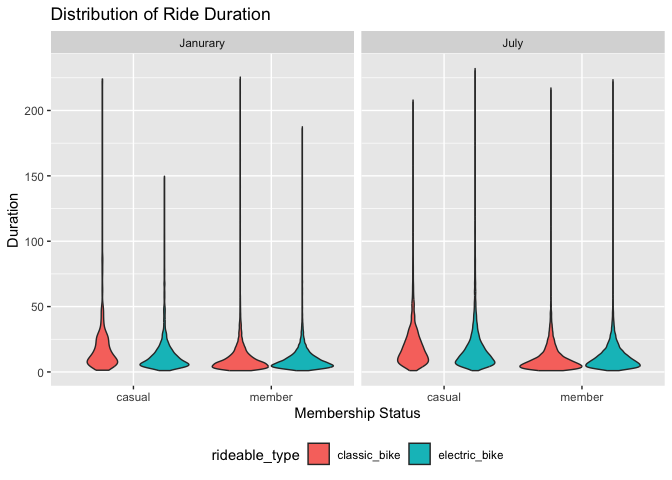
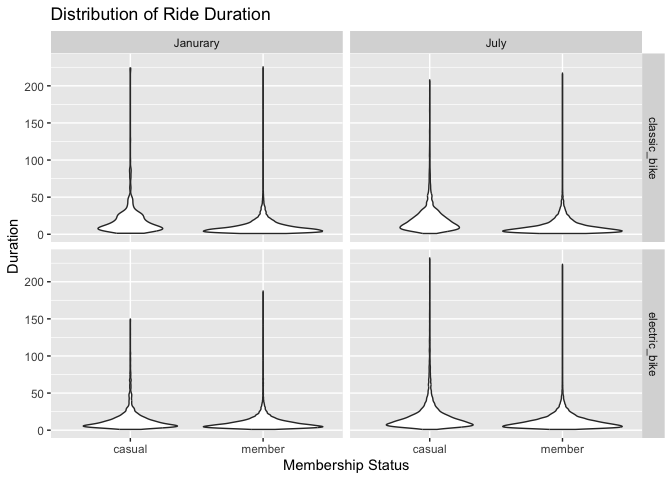
change comments

diff --git a/p8105_hw3_jl6521.md b/p8105_hw3_jl6521.md
@@ -1,7 +1,7 @@
 p8105_hw3_jl6521
 ================
 Jiayi
-2024-10-10
+2024-10-13
 
 ## Problem 1
 
@@ -20,7 +20,105 @@ weather stations around the world with 7 daily variables. They are ids,
 maximum and minimum temperature, total daily precipitation, snowfall,
 and snow depth.
 
-\*and indicating the extent to which missing data is an issue.
+Below we clean the data, creating separate variables for year, month,
+and day and converting `tmax` and `tmin` to numeric. We find that 0 is
+the most commonly observed value for snowfall. This is because most days
+of the year, it does not snow at all in NY. The second most commonly
+observed value is `NA`, indicating missingness. Other common values are
+13, 25, and 51, suggesting that snowfall is originally recorded in
+fractions of an inch and converted to mm.
+
+``` r
+ny_noaa %>% 
+  count(snow) %>%
+  arrange(desc(n))
+```
+
+    ## # A tibble: 282 × 2
+    ##     snow       n
+    ##    <int>   <int>
+    ##  1     0 2008508
+    ##  2    NA  381221
+    ##  3    25   31022
+    ##  4    13   23095
+    ##  5    51   18274
+    ##  6    76   10173
+    ##  7     8    9962
+    ##  8     5    9748
+    ##  9    38    9197
+    ## 10     3    8790
+    ## # ℹ 272 more rows
+
+``` r
+ny_noaa = 
+  ny_noaa %>% 
+  separate(date, into = c("year", "month", "day"), convert = TRUE) %>% 
+  mutate(
+    tmax = as.numeric(tmax),
+    tmin = as.numeric(tmin))
+```
+
+Below is a two-panel plot showing the average max temperature in January
+and in July in each station across years. As expected, the mean
+temperature in January is much lower than the mean temperature in July
+for all stations and across all years. All stations appear to follow
+similar trends of temperature peaks and valleys within a month across
+the years, i.e.when one station has a high monthly mean temperature for
+a given year, most other stations also have a high monthly mean
+temperature for that year. We do see one uncharacteristically cold
+station in July of 1987 or 1988, as well as a few other less drastic
+outliers.
+
+``` r
+ny_noaa %>% 
+  group_by(id, year, month) %>% 
+  filter(month %in% c(1, 7)) %>% 
+  summarize(mean_tmax = mean(tmax, na.rm = TRUE, color = id)) %>% 
+  ggplot(aes(x = year, y = mean_tmax, group = id)) + geom_point() + geom_path() +
+  facet_grid(~month) +
+  labs(title = "Mean monthly temperature for each station across years for January and July")
+```
+
+    ## `summarise()` has grouped output by 'id', 'year'. You can override using the
+    ## `.groups` argument.
+
+    ## Warning: Removed 5970 rows containing missing values or values outside the scale range
+    ## (`geom_point()`).
+
+    ## Warning: Removed 5931 rows containing missing values or values outside the scale range
+    ## (`geom_path()`).
+
+![](p8105_hw3_jl6521_files/figure-gfm/unnamed-chunk-3-1.png)<!-- -->
+Below we show a two-panel plot including (i) a hex plot of `tmax` vs
+`tmin` for the full dataset; and (ii) a ridge plot showing the
+distribution of snowfall values (in mm) greater than 0 and less than 100
+separately by year.
+
+From the hex plot we see that while there is some variability, the
+majority of the data cluster tightly in the center of the distribution.
+In relatively rare cases, it seems that `tmax` is less than `tmin`,
+which raises questions about data recording and quality.
+
+From the ridge plot, we see a multimodal density of snowfall within a
+given year. Most stations see between 0 and 35 mm of snow in a year.
+Then there is a another group of stations that see about 45 mm of snow,
+and another group that sees nearly 80 mm. It is likely this
+multimodality stems from the conversion of measurements in one system
+(fractions of an inch) to another (using the metric system), which was
+also noted in the table of common values.
+
+``` r
+hex = 
+  ny_noaa %>% 
+  ggplot(aes(x = tmin, y = tmax)) + 
+  geom_hex()
+
+ridge = 
+  ny_noaa %>% 
+  filter(snow < 100, snow > 0) %>%
+  ggplot(aes(x = snow, y = as.factor(year))) + 
+  geom_density_ridges()
+```
 
 ## Problem 2
 
@@ -28,36 +126,16 @@ and snow depth.
 
 ``` r
 acc_data = read_csv("./data/nhanes_accel.csv",
-                    na = c("NA", ".", "")
+                    na = c("NA", ".", ""),show_col_types = FALSE
                     ) %>% 
   janitor::clean_names()
-```
 
-    ## Rows: 250 Columns: 1441
-    ## ── Column specification ────────────────────────────────────────────────────────
-    ## Delimiter: ","
-    ## dbl (1441): SEQN, min1, min2, min3, min4, min5, min6, min7, min8, min9, min1...
-    ## 
-    ## ℹ Use `spec()` to retrieve the full column specification for this data.
-    ## ℹ Specify the column types or set `show_col_types = FALSE` to quiet this message.
-
-``` r
 demo_data = read_csv("./data/nhanes_covar.csv",
                      skip = 4,
-                     na = c("NA", ".", "")
+                     na = c("NA", ".", ""),show_col_types = FALSE
                      ) %>% 
   janitor::clean_names()
-```
 
-    ## Rows: 250 Columns: 5
-    ## ── Column specification ────────────────────────────────────────────────────────
-    ## Delimiter: ","
-    ## dbl (5): SEQN, sex, age, BMI, education
-    ## 
-    ## ℹ Use `spec()` to retrieve the full column specification for this data.
-    ## ℹ Specify the column types or set `show_col_types = FALSE` to quiet this message.
-
-``` r
 merged_mims = inner_join(demo_data,acc_data, by = "seqn") %>%
   filter(age >= 21) %>%
   drop_na(sex, age, bmi, education) %>%
@@ -90,7 +168,8 @@ education_table %>%
   kable(
     col.names = c("Education level", "Female", "Male"),
     caption = "Number of Men and Women by Education Category",
-    align = "c"
+    align = "c",
+    caption.position = "top"
   )
 ```
 
@@ -105,12 +184,13 @@ Number of Men and Women by Education Category
 3.  Age distribution visualization
 
 ``` r
-education_visualization = ggplot(merged_mims,aes(x= education, y = age, fill = sex)) + 
-  geom_boxplot() + 
+education_visualization = ggplot(merged_mims,aes(x=age, fill = sex)) + 
+  geom_density(alpha = 0.31) + 
+  facet_grid(.~education)+
   labs(
     title = "Age Distribution by Education and Sex",
-    x = "Education Level",
-    y = "Age"
+    x = "age",
+    y = "Density"
   ) + 
   theme_minimal()
 
@@ -118,7 +198,6 @@ print(education_visualization)
 ```
 
 ![](p8105_hw3_jl6521_files/figure-gfm/age%20visualization-1.png)<!-- -->
-
 Comment: From the plot, we can see that the age of the people with more
 than high school degree is usually lower than the other two education
 levels. The age of males and females are similar for both less than high
@@ -174,12 +253,12 @@ time_plot = merged_mims %>%
     names_to = "time",
     values_to = "activity"
   ) %>% 
-  group_by(education, sex, time) %>% 
-  summarize(mean_activity = mean(activity, na.rm = TRUE),.groups = 'drop') %>%
+  #group_by(education, sex, time) %>% 
+  #summarize(mean_activity = mean(activity, na.rm = TRUE),.groups = 'drop') %>%
   mutate(time = as.numeric(gsub("min", "", time))) %>%
-  ggplot(aes(x=time,y=mean_activity,color = sex))+
+  ggplot(aes(x=time,y=activity,group = seqn,color = sex))+
   geom_line(alpha = 0.5) +
-  geom_smooth(se = FALSE)+
+  geom_smooth(aes(group = sex), se = FALSE)+
   facet_grid(. ~ education) + 
   labs(
     title = "Activity over time for different education levels for males/females",
@@ -192,7 +271,7 @@ print(time_plot)
 
     ## `geom_smooth()` using method = 'gam' and formula = 'y ~ s(x, bs = "cs")'
 
-![](p8105_hw3_jl6521_files/figure-gfm/unnamed-chunk-1-1.png)<!-- -->
+![](p8105_hw3_jl6521_files/figure-gfm/unnamed-chunk-5-1.png)<!-- -->
 Comment: Three panel graphs have similar trends overall where they all
 decrease at first and then increase starting from 250 minutes (around
 4am). For the group with less than high school education, people’s
@@ -269,7 +348,7 @@ july24_new = july24 %>%
   group_by(member_casual) %>% 
   summarize(July2024 = n())
 
-full_table = jan20_new %>% 
+jan20_new %>% 
   left_join(jan24_new, by = "member_casual") %>% 
   left_join(july20_new, by = "member_casual") %>%
   left_join(july24_new, by = "member_casual") %>% 
@@ -278,6 +357,13 @@ full_table = jan20_new %>%
   col.names = c("Member or casual", "Janurary 2020", "Janurary 2024", "July 2020", "July 2024")
   )
 ```
+
+| Member or casual | Janurary 2020 | Janurary 2024 | July 2020 | July 2024 |
+|:-----------------|--------------:|--------------:|----------:|----------:|
+| casual           |           984 |          2108 |      5637 |     10894 |
+| member           |         11436 |         16753 |     15411 |     36262 |
+
+Total number of rides at each time
 
 Comment: from the table, we can see that as time passes, there are more
 rides for both casual riders and members. The number of member is always
@@ -293,7 +379,8 @@ july24 %>%
   slice_head(n = 5) %>% 
   knitr::kable(
     caption = "Top 5 Most Popular Starting Stations",
-    col.names = c("start station","total rides")
+    col.names = c("start station","total rides"),
+    caption.position = "top"
     )
 ```
 
@@ -306,6 +393,10 @@ july24 %>%
 | W 31 St & 7 Ave          |         146 |
 
 Top 5 Most Popular Starting Stations
+
+Comment: from the table, the 5 most popular starting stations are Pier
+61 at Chelsea Piers, University Pl & E 14 St, W 21 St & 6 Ave, West St &
+Chambers St, and W31 St & 7 Ave.
 
 4.  Effects of time on median ride duration
 
@@ -344,9 +435,9 @@ and Sunday is slightly higher.
 
 ``` r
 bind_24 = rbind(july24,jan24)
-ggplot(bind_24, aes(x = member_casual,y = duration,fill = rideable_type))+ 
-  geom_boxplot()+
-  facet_grid(~month)+ 
+ggplot(bind_24, aes(x = member_casual,y = duration))+ 
+  geom_violin()+
+  facet_grid(rideable_type~month)+ 
   theme(legend.position = "bottom")+
   labs(
     title = "Distribution of Ride Duration",
@@ -359,4 +450,7 @@ ggplot(bind_24, aes(x = member_casual,y = duration,fill = rideable_type))+
 Comment: from the graph, we can see that there are lots of outliers with
 high duration riding time. The distribution of the duration time for
 casual riders are wider than the members, indicating that the members
-have a more fixed habit of riding.
+have a more fixed habit of riding. For months, we can see that there are
+more outliers in July that many people have a higher duration of riding.
+People rode electric bike more with a shorter duration than classic
+bike.
